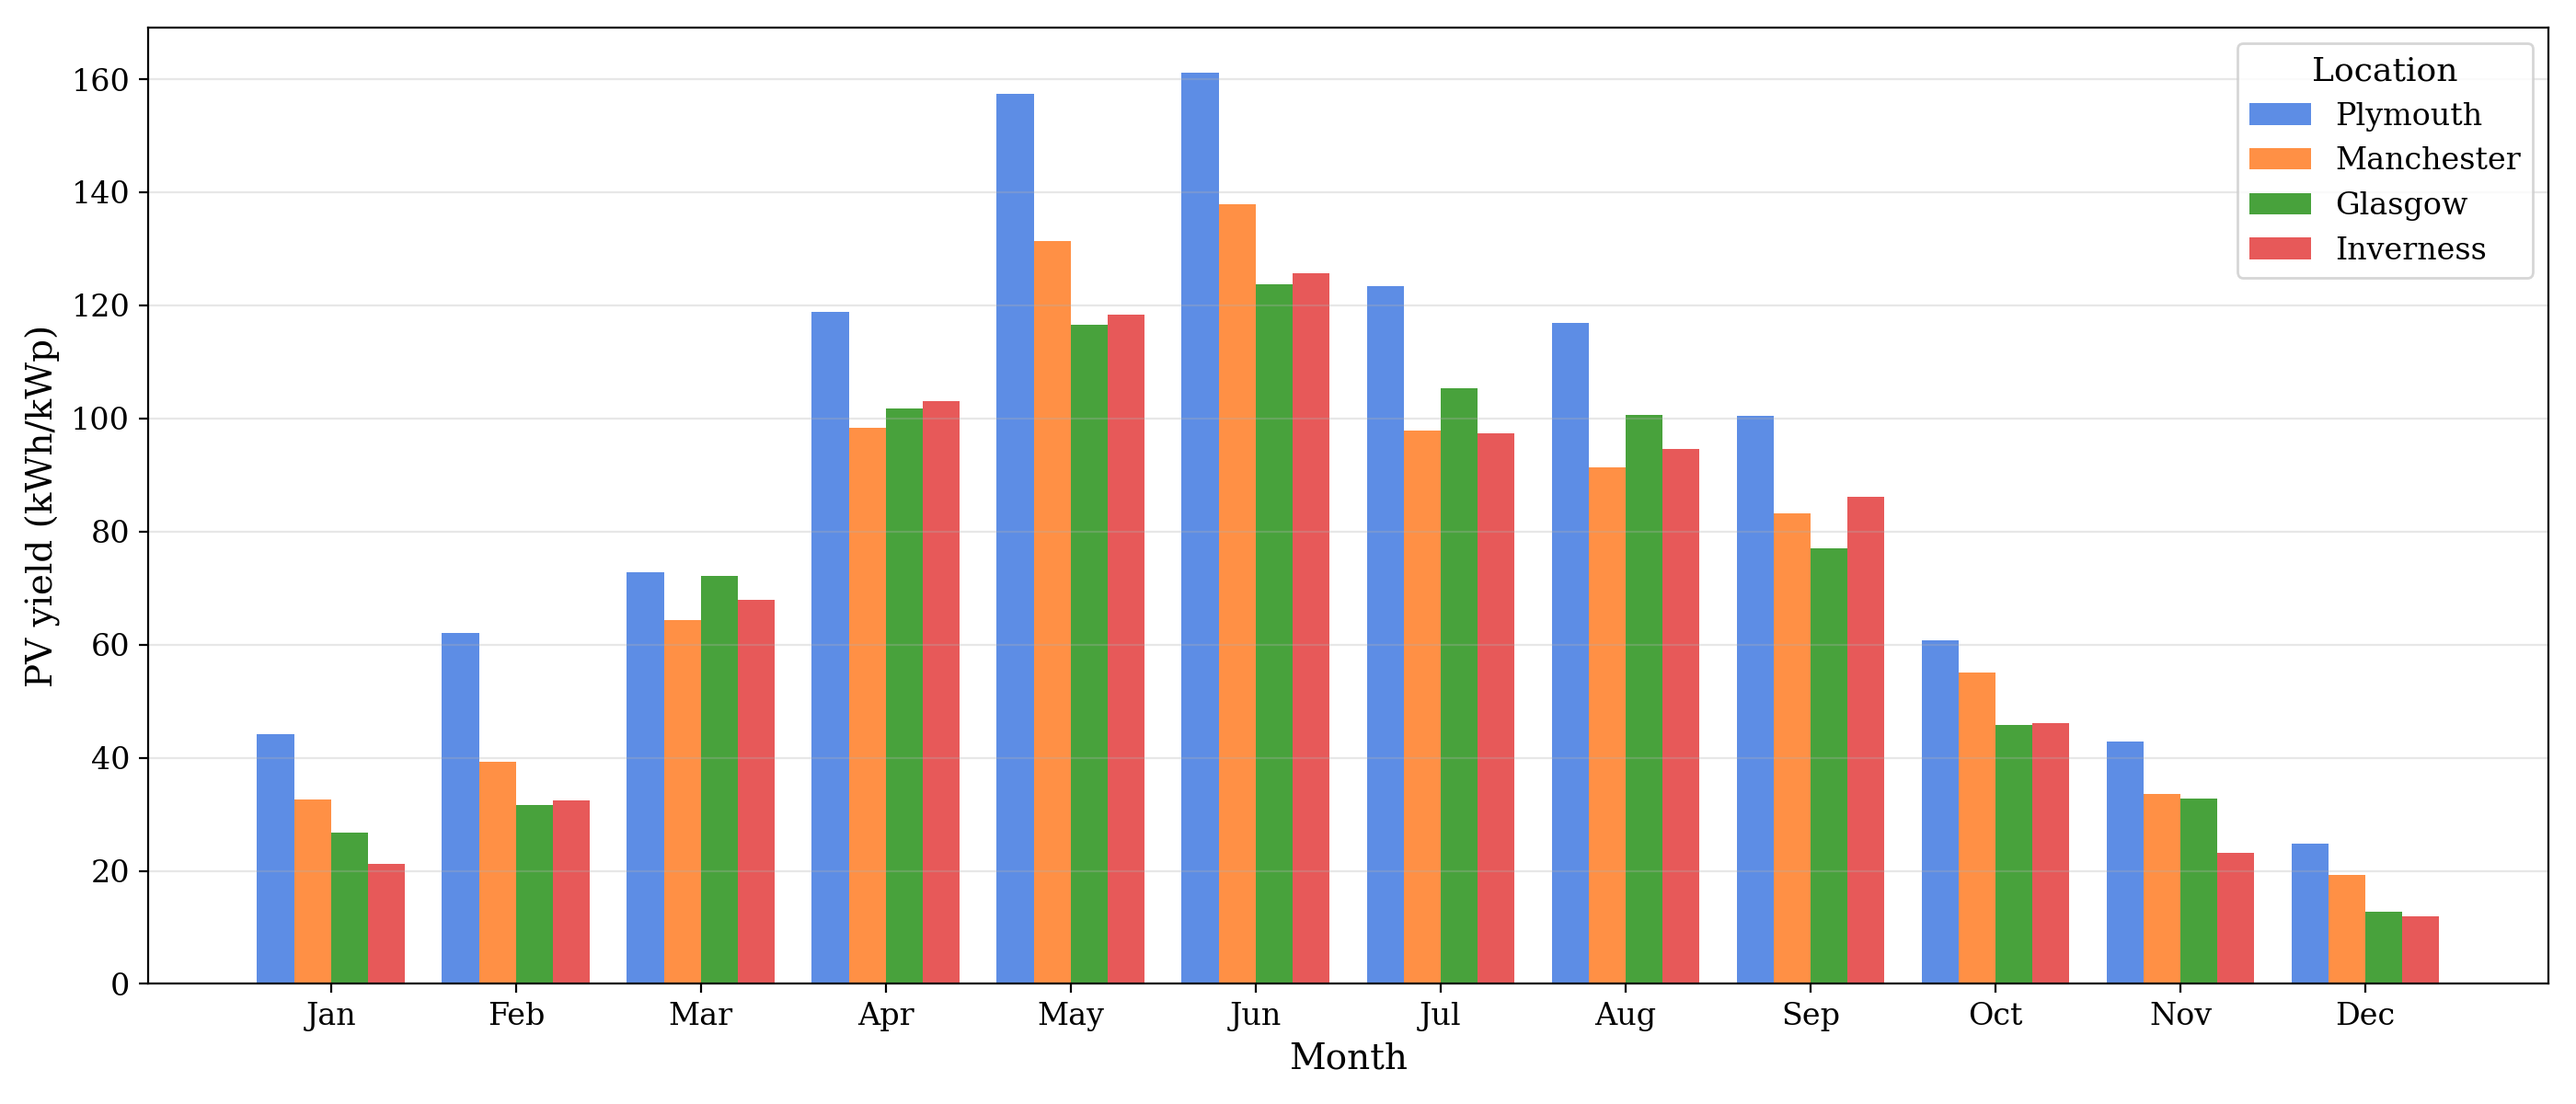
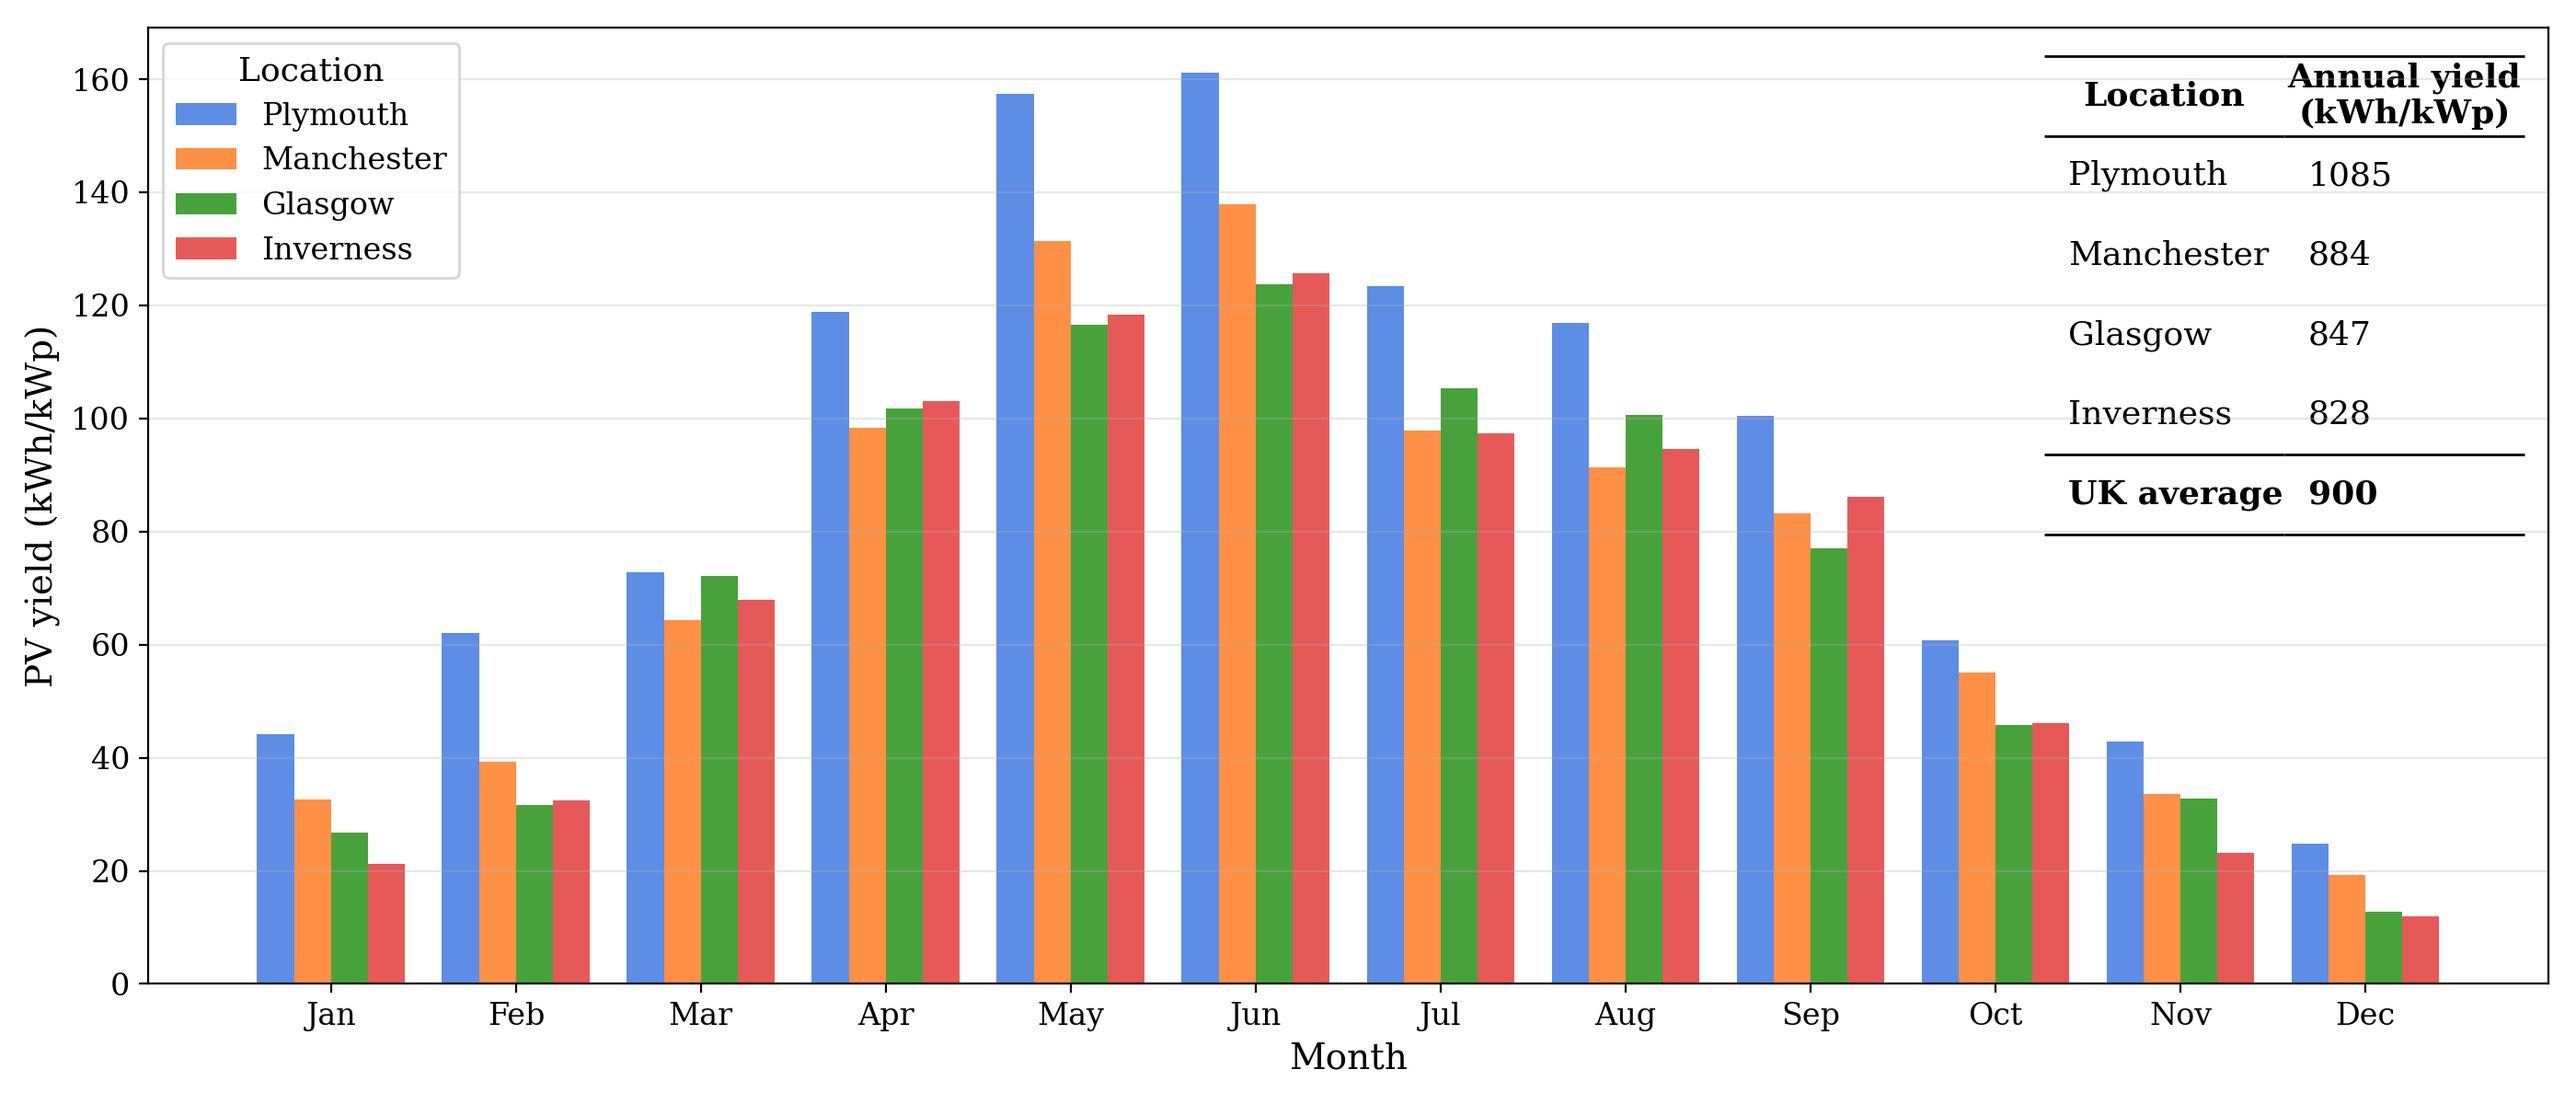
include table with annual figures

diff --git a/data/graphs/plot_pv_timeseries_2023.py b/data/graphs/plot_pv_timeseries_2023.py
@@ -82,9 +82,12 @@ def make_plot(out_path: Path) -> None:
     width = 0.8 / n_locs
 
     colors = ["#5D8DE5", "#FF9045", "#48A23C", "#E75959"]
+    annual_yields = {}
     for idx, path in enumerate(files):
         s = _load_p_series(path)
         monthly = _monthly_yield_kwh_per_kwp(s).reindex(range(1, 13), fill_value=np.nan)
+        annual_total = monthly.sum()
+        annual_yields[lat_to_name.get(path.name.split("_")[1], path.stem)] = annual_total
 
         # Derive a short label from the filename (latitude -> name if known).
         key = path.name.split("_")[1]
@@ -97,8 +100,54 @@ def make_plot(out_path: Path) -> None:
     ax.set_xticks(x)
     ax.set_xticklabels(month_labels, fontsize=12)
     ax.tick_params(axis="y", labelsize=12)
-    ax.legend(title="Location", fontsize=12, title_fontsize=13)
+    ax.legend(title="Location", fontsize=12, title_fontsize=13, loc='upper left')
     ax.grid(axis="y", alpha=0.3)
+    
+    # Add a summary table with annual yields
+    uk_average = 900.0
+
+    table_data = [
+    ["Plymouth",   f"{annual_yields['Plymouth']:.0f}"],
+    ["Manchester", f"{annual_yields['Manchester']:.0f}"],
+    ["Glasgow",    f"{annual_yields['Glasgow']:.0f}"],
+    ["Inverness",  f"{annual_yields['Inverness']:.0f}"],
+    ["UK average", f"{uk_average:.0f}"],
+]
+
+    table = ax.table(
+    cellText=table_data,
+    colLabels=["Location", "Annual yield\n(kWh/kWp)"],
+    cellLoc="left",
+    colLoc="center",
+    bbox=[0.79, 0.47, 0.20, 0.50],  # x, y, width, height
+)
+
+    table.auto_set_font_size(False)
+    table.set_fontsize(13)
+
+    # Remove all borders first
+    for cell in table.get_celld().values():
+        cell.visible_edges = ""
+        cell.set_facecolor("white")
+    
+    # Add rules only to header row and UK average row
+    last_row = len(table_data)
+
+    # Style table
+    for (row, col), cell in table.get_celld().items():
+
+        if row == 0:  # header row
+            cell.visible_edges = "TB"
+            cell.set_linewidth(1.0)
+            cell.set_text_props(weight="bold")
+
+        elif row == 5:  # UK average row
+            cell.visible_edges = "TB"
+            cell.set_linewidth(1.0)
+            cell.set_text_props(weight='bold')
+
+    table.scale(1.0, 1.2)
+    
     fig.tight_layout()
     out_path.parent.mkdir(parents=True, exist_ok=True)
     fig.savefig(out_path, dpi=200)
